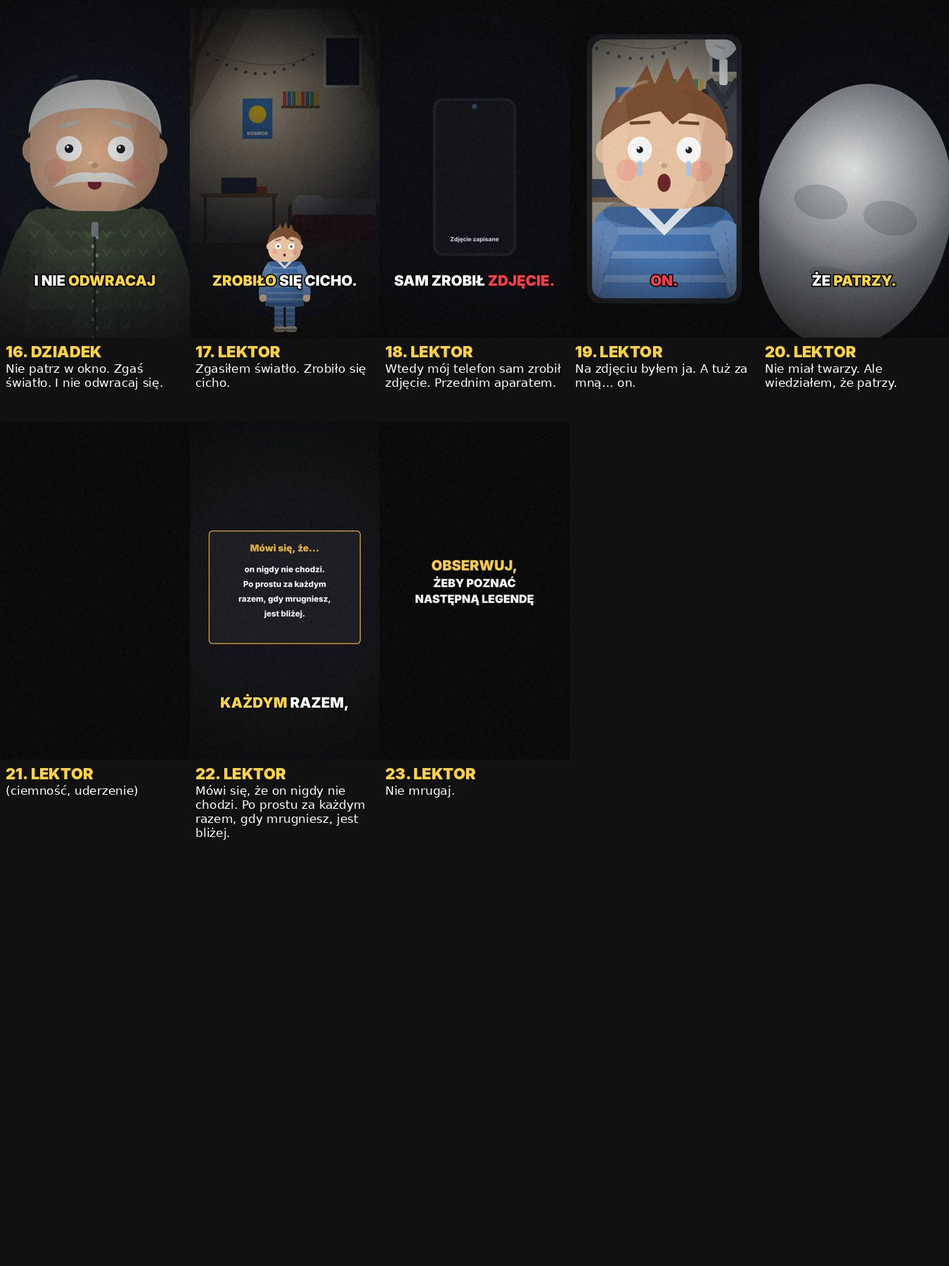
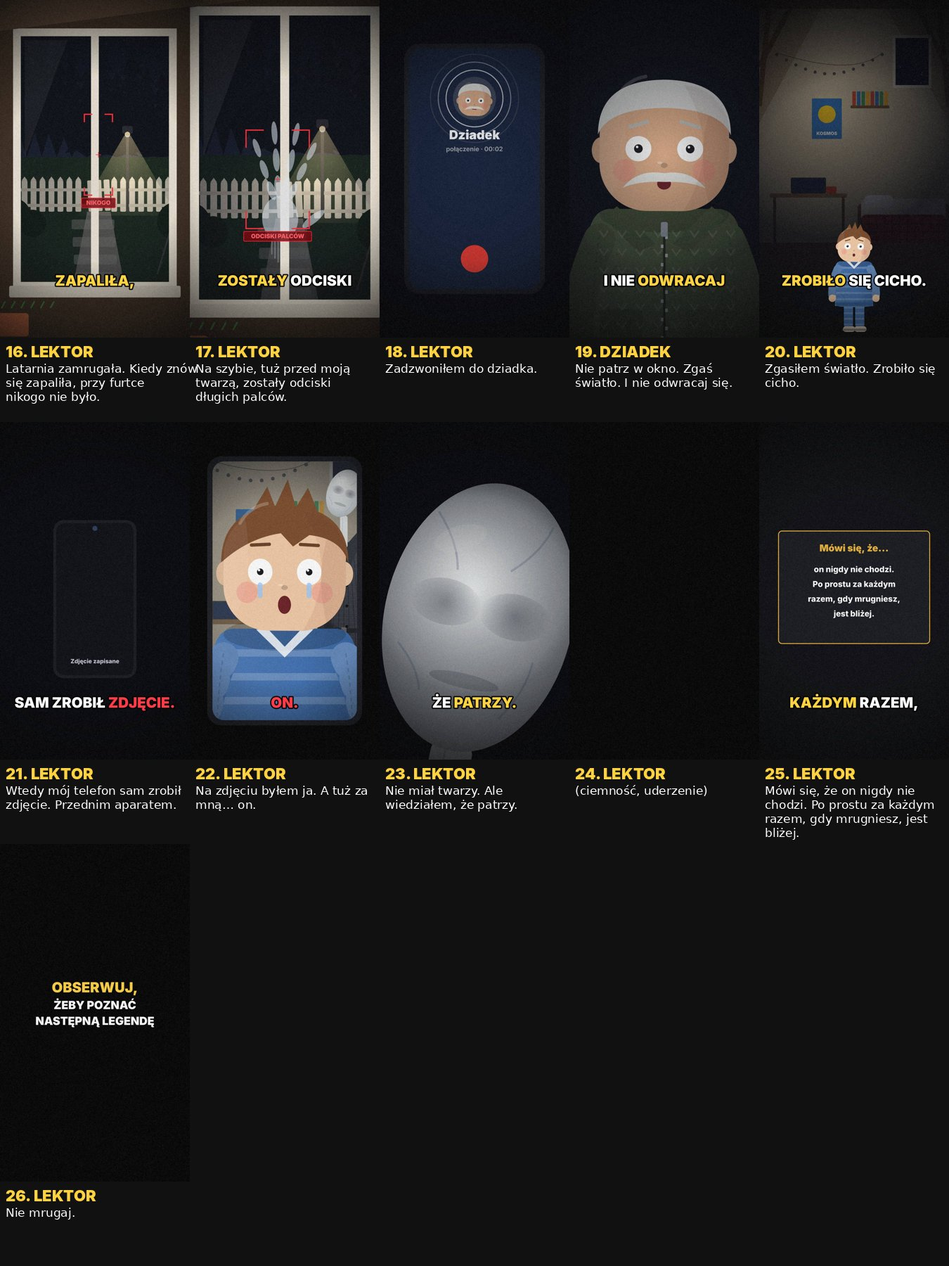
Pan Bez Twarzy: dopracowana postać, 3 nowe sceny (zoom, latarnia, odciski na szybie)
Claude-Session: https://claude.ai/code/session_01XA7BeL8A8WqQ6rWtpD99qW

diff --git a/film/leg22/scenes.js b/film/leg22/scenes.js
@@ -2161,16 +2161,21 @@ function sypialniaNowa(c, lt, o = {}) { c.fillStyle = '#D8D0C8'; c.fillRect(0, 0
   NIGHT(c, o.dark ?? .4, 400, 1000, 760); }
 // ===================== PAN BEZ TWARZY: postać =====================
 // bardzo wysoki, chudy, w długim grafitowym płaszczu; gładka blada głowa bez rysów; długie ręce i palce; o.a, o.tilt, o.reach
-function bezTwarzy(c, x, y, s, t, o = {}) { c.save(); c.globalAlpha = o.a ?? 1; c.translate(x, y); c.scale(s, s); ell(c, 0, 0, 120, 16, 'rgba(0,0,0,.35)');
-  // nogi
-  for (const sx of [-1, 1]) { fillRR(c, sx * 34 - 16, -900, 32, 900, 12, '#14161A'); ell(c, sx * 40, -4, 34, 12, '#0A0A0C'); }
-  // płaszcz
-  const g = c.createLinearGradient(-140, -1700, 140, -500); g.addColorStop(0, '#3A3E46'); g.addColorStop(1, '#1A1C22'); c.fillStyle = g; c.beginPath(); c.moveTo(-90, -1640); c.lineTo(90, -1640); c.quadraticCurveTo(150, -1200, 170, -620); c.lineTo(40, -660); c.lineTo(0, -900); c.lineTo(-40, -660); c.lineTo(-170, -620); c.quadraticCurveTo(-150, -1200, -90, -1640); c.fill();
-  c.strokeStyle = 'rgba(0,0,0,.4)'; c.lineWidth = 4; c.beginPath(); c.moveTo(0, -1600); c.lineTo(0, -900); c.stroke(); for (let k = 0; k < 4; k++) circ(c, 14, -1500 + k * 120, 7, '#0A0A0C'); c.fillStyle = '#26282E'; c.beginPath(); c.moveTo(-90, -1640); c.lineTo(0, -1500); c.lineTo(90, -1640); c.lineTo(60, -1660); c.lineTo(0, -1560); c.lineTo(-60, -1660); c.fill();
-  // ręce: bardzo długie, palce do kolan
-  const reach = o.reach || 0; for (const sx of [-1, 1]) { c.save(); c.translate(sx * 100, -1600); c.rotate(sx * (.08 + (sx > 0 ? reach : 0) * -1.2) + Math.sin(t * .8 + sx) * .02); fillRR(c, -20, 0, 40, 860, 18, '#24262C'); c.translate(0, 860); fillRR(c, -22, 0, 44, 60, 14, '#D8DCDC'); for (let f = 0; f < 4; f++) { c.save(); c.translate(-16 + f * 11, 50); c.rotate((f - 1.5) * .05); fillRR(c, -4, 0, 9, 150 + (f === 1 || f === 2 ? 30 : 0), 4, '#D0D4D4'); c.restore(); } c.restore(); }
-  // szyja i głowa bez twarzy
-  fillRR(c, -22, -1760, 44, 140, 12, '#D0D4D4'); c.save(); c.translate(0, -1880); c.rotate((o.tilt ?? .12) + Math.sin(t * .6) * .03); const hg = c.createRadialGradient(-30, -40, 10, 0, 0, 130); hg.addColorStop(0, '#F4F6F6'); hg.addColorStop(1, '#B8C0C2'); c.fillStyle = hg; c.beginPath(); c.ellipse(0, 0, 92, 128, 0, 0, 7); c.fill(); c.fillStyle = 'rgba(80,90,96,.25)'; for (const sx of [-1, 1]) { c.beginPath(); c.ellipse(sx * 34, -6, 26, 16, 0, 0, 7); c.fill(); } c.beginPath(); c.ellipse(0, 60, 30, 8, 0, 0, 7); c.fill(); c.restore();
+function bezTwarzy(c, x, y, s, t, o = {}) { c.save(); c.globalAlpha = o.a ?? 1; c.translate(x, y); c.scale(s, s); ell(c, 0, 0, 130, 18, 'rgba(0,0,0,.4)');
+  for (const sx of [-1, 1]) { fillRR(c, sx * 34 - 15, -900, 30, 900, 12, '#121418'); c.fillStyle = '#08080A'; c.beginPath(); c.ellipse(sx * 46, -6, 40, 13, 0, 0, 7); c.fill(); }
+  // płaszcz z fakturą, postrzępiony dół
+  const g = c.createLinearGradient(-150, -1700, 150, -500); g.addColorStop(0, '#3E424A'); g.addColorStop(.6, '#262930'); g.addColorStop(1, '#16181C'); c.fillStyle = g; c.beginPath(); c.moveTo(-92, -1640); c.lineTo(92, -1640); c.quadraticCurveTo(150, -1200, 175, -640); for (let k = 0; k <= 8; k++) c.lineTo(175 - k * 44, -640 + (k % 2 ? 46 : 0) + Math.sin(t * 2 + k) * 6); c.quadraticCurveTo(-150, -1200, -92, -1640); c.fill();
+  c.strokeStyle = 'rgba(0,0,0,.35)'; c.lineWidth = 3; for (let k = -3; k <= 3; k++) { c.beginPath(); c.moveTo(k * 18, -1560); c.quadraticCurveTo(k * 30, -1100, k * 48, -660); c.stroke(); } c.strokeStyle = 'rgba(255,255,255,.05)'; c.lineWidth = 2; for (let k = 0; k < 40; k++) { const yy = -1600 + k * 24; c.beginPath(); c.moveTo(-120 - k * .6, yy); c.lineTo(120 + k * .6, yy + 6); c.stroke(); }
+  fillRR(c, -100, -1180, 200, 24, 8, '#1A1C20'); fillRR(c, -14, -1186, 28, 36, 4, '#5A5A5E'); for (const sx of [-1, 1]) { fillRR(c, sx * 80 - 30, -1060, 60, 70, 8, 'rgba(0,0,0,.25)'); } for (let k = 0; k < 4; k++) circ(c, 16, -1520 + k * 110, 8, '#0A0A0C');
+  c.fillStyle = '#2C2F36'; c.beginPath(); c.moveTo(-96, -1650); c.lineTo(-20, -1480); c.lineTo(0, -1600); c.lineTo(20, -1480); c.lineTo(96, -1650); c.lineTo(70, -1690); c.lineTo(0, -1610); c.lineTo(-70, -1690); c.fill();
+  // ręce: długie, kościste palce ze stawami
+  const reach = o.reach || 0; for (const sx of [-1, 1]) { c.save(); c.translate(sx * 104, -1610); c.rotate(sx * (.07 + (sx > 0 ? reach : 0) * -1.2) + Math.sin(t * .8 + sx) * .02); fillRR(c, -21, 0, 42, 860, 18, '#22252B'); fillRR(c, -24, 820, 48, 40, 10, '#2C2F36'); c.translate(0, 860); fillRR(c, -20, 0, 40, 64, 14, '#D4D8D8'); for (let f = 0; f < 4; f++) { c.save(); c.translate(-15 + f * 10, 58); c.rotate((f - 1.5) * .06 + Math.sin(t * 1.5 + f) * .03); const L = 170 + (f === 1 || f === 2 ? 40 : 0); c.strokeStyle = '#C8CCCC'; c.lineWidth = 9; c.lineCap = 'round'; c.beginPath(); c.moveTo(0, 0); c.lineTo(0, L * .45); c.lineTo(2, L * .8); c.lineTo(0, L); c.stroke(); circ(c, 0, L * .45, 6, '#B8BCBC'); circ(c, 2, L * .8, 5, '#B8BCBC'); c.restore(); } c.restore(); }
+  // szyja i głowa bez twarzy: żyłki, wgłębienia
+  fillRR(c, -20, -1780, 40, 170, 12, '#CDD1D1'); c.strokeStyle = 'rgba(120,130,140,.4)'; c.lineWidth = 2; c.beginPath(); c.moveTo(-6, -1770); c.lineTo(-10, -1640); c.stroke();
+  c.save(); c.translate(0, -1900); c.rotate((o.tilt ?? .12) + Math.sin(t * .6) * .03); const hg = c.createRadialGradient(-30, -50, 10, 0, 0, 140); hg.addColorStop(0, '#F6F8F8'); hg.addColorStop(.7, '#C8CED0'); hg.addColorStop(1, '#9AA2A6'); c.fillStyle = hg; c.beginPath(); c.ellipse(0, 0, 90, 130, 0, 0, 7); c.fill();
+  for (const sx of [-1, 1]) { const eg = c.createRadialGradient(sx * 34, -8, 2, sx * 34, -8, 34); eg.addColorStop(0, 'rgba(60,70,80,.45)'); eg.addColorStop(1, 'rgba(60,70,80,0)'); c.fillStyle = eg; c.beginPath(); c.ellipse(sx * 34, -8, 34, 22, 0, 0, 7); c.fill(); }
+  c.fillStyle = 'rgba(60,70,80,.25)'; c.beginPath(); c.ellipse(0, 62, 34, 7, 0, 0, 7); c.fill(); c.strokeStyle = 'rgba(110,130,160,.35)'; c.lineWidth = 2; for (const [a, b2, cc, d] of [[-60, -90, -30, -40], [50, -100, 20, -50], [-70, 40, -40, 80], [60, 30, 40, 90]]) { c.beginPath(); c.moveTo(a, b2); c.quadraticCurveTo((a + cc) / 2 + 10, (b2 + d) / 2, cc, d); c.stroke(); }
+  c.fillStyle = 'rgba(255,255,255,.35)'; c.beginPath(); c.ellipse(-34, -70, 26, 12, -.5, 0, 7); c.fill(); c.restore();
   c.restore(); }
 // ===================== jesienny las we mgle =====================
 // o.fog (0..1), o.path, o.sign, o.figure {x,y,s,a}, o.kids [[x,y,s,opts]], o.clearing, o.flash
@@ -2234,7 +2239,7 @@ function fotoLas(c, x, y, w, h, lt, stage = 1) { c.save(); c.translate(x, y); c.
 // galeria w telefonie: duże zdjęcie + miniatury
 function galeria(c, lt, stage, o = {}) { c.fillStyle = '#05060A'; c.fillRect(0, 0, W, H); c.save(); c.translate(540, 960); c.rotate(-.02); fillRR(c, -380, -660, 760, 1320, 80, '#1A1C22'); fillRR(c, -354, -634, 708, 1268, 60, '#000'); c.save(); c.beginPath(); rr(c, -354, -634, 708, 1268, 60); c.clip(); txt(c, 'Wycieczka · pt', 0, -560, 34, '#FFFFFF', 900); fotoLas(c, -340, -500, 680, 820, lt, stage); for (let k = 0; k < 4; k++) { c.save(); c.globalAlpha = k + 1 === stage ? 1 : .6; fotoLas(c, -330 + k * 168, 360, 150, 180, lt, Math.min(3, k + 1)); c.restore(); if (k + 1 === stage) { c.strokeStyle = '#FFFFFF'; c.lineWidth = 5; c.strokeRect(-330 + k * 168, 360, 150, 180); } } c.restore(); c.restore(); NIGHT(c, .35, 540, 960, 760); }
 // ===================== PAN BEZ TWARZY: sceny =====================
-const TSK = {'karta':{start:0,end:4.4},'las0':{start:4.4,end:8.0},'zdjecia':{start:8.0,end:11.4},'dziadek':{start:11.4,end:15.8},'kuba0':{start:15.8,end:18.4},'wycieczka':{start:18.4,end:22.0},'mgla':{start:22.0,end:25.2},'zdjecie1':{start:25.2,end:28.8},'galeria1':{start:28.8,end:32.6},'galeria2':{start:32.6,end:36.0},'galeria3':{start:36.0,end:39.6},'nikt':{start:39.6,end:42.8},'okno':{start:42.8,end:46.4},'latarnia':{start:46.4,end:50.2},'dzwonie':{start:50.2,end:53.2},'dziadek2':{start:53.2,end:57.2},'gasi':{start:57.2,end:60.2},'klik':{start:60.2,end:63.4},'selfie':{start:63.4,end:67.4},'patrzy':{start:67.4,end:70.8},'ciemnosc':{start:70.8,end:73.2},'epilog':{start:73.2,end:78.4},'end':{start:78.4,end:83.4}};
+const TSK = {'karta':{start:0,end:4.4},'las0':{start:4.4,end:8.0},'zdjecia':{start:8.0,end:11.4},'dziadek':{start:11.4,end:15.8},'kuba0':{start:15.8,end:18.4},'wycieczka':{start:18.4,end:22.0},'mgla':{start:22.0,end:25.2},'zdjecie1':{start:25.2,end:28.8},'galeria1':{start:28.8,end:32.6},'galeria2':{start:32.6,end:36.0},'galeria3':{start:36.0,end:39.6},'zoom':{start:39.6,end:43.2},'nikt':{start:43.2,end:46.4},'okno':{start:46.4,end:50.0},'latarnia':{start:50.0,end:53.8},'mruga':{start:53.8,end:57.2},'szyba':{start:57.2,end:61.0},'dzwonie':{start:61.0,end:64.0},'dziadek2':{start:64.0,end:68.0},'gasi':{start:68.0,end:71.0},'klik':{start:71.0,end:74.2},'selfie':{start:74.2,end:78.2},'patrzy':{start:78.2,end:81.6},'ciemnosc':{start:81.6,end:84.0},'epilog':{start:84.0,end:89.2},'end':{start:89.2,end:94.2}};
 let _lt = 0; const SC = (name, o) => { const d = o.draw; if (d) o.draw = (c, lt) => { _lt = lt; d(c, lt); }; return scene(Object.assign({ name }, TSK[name], o)); };
 
 const KUBA = { kind: 'kuba', home: true }, KUBAS = { kind: 'kuba', home: false }, DZIADEK = { kind: 'sasiad', cloth: '#4A5A3A', hair: '#E2E2DE', stache: '#EAEAE6', knit: true }, PANI = { kind: 'mama', cloth: '#3A6A8A', hair: '#2A1E18' };
@@ -2258,6 +2263,9 @@ SC('zdjecie1', { cam: P(1.04, 3.6), draw(c, lt) { lasJesien(c, lt, { clearing: t
 SC('galeria1', { cam: (lt) => ({ z: 1.04 + lt * .04 }), draw(c, lt) { galeria(c, lt, 1); }, post(c, lt) { if (lt > 1.8) target(c, lt, 832, 600, 150, 340, 'KTOŚ STOI', 1.8); } });
 SC('galeria2', { cam: (lt) => ({ z: 1.08 + lt * .04 }), draw(c, lt) { galeria(c, lt, 2); }, post(c, lt) { joltFlash(c, lt, [.3]); } });
 SC('galeria3', { cam: (lt) => ({ z: 1.12 + lt * .04 }), draw(c, lt) { galeria(c, lt, 3); }, post(c, lt) { joltFlash(c, lt, [.3]); if (lt > 1.2) target(c, lt, 700, 640, 220, 560, 'ZA NAMI', 1.2); } });
+SC('zoom', { cam: (lt) => ({ z: 1.0 }), draw(c, lt) { const z = 1 + eout(clamp((lt - .3) / 2)) * 2.2; c.save(); c.translate(540, 960); c.scale(z, z); c.translate(-600, -lerp(960, 540, eout(clamp((lt - .3) / 2)))); lasJesien(c, lt, { fog: .55, path: false, figure: { x: 600, y: 1700, s: .62 }, dark: .2 }); c.restore(); for (let k = 0; k < 900; k++) circ(c, hash(k + Math.floor(lt * 12)) * W, hash(k * 7 + Math.floor(lt * 12)) * H, 1.6, `rgba(255,255,255,${.08 + hash(k) * .1})`); for (const [fx, fy] of [[380 - lt * 40, 1500 + lt * 30], [700 + lt * 40, 1400 - lt * 30]]) { c.save(); c.globalAlpha = clamp(1 - lt / 2); circ(c, fx, fy, 50, 'rgba(255,255,255,.35)'); c.restore(); } NIGHT(c, .3, 540, 900, 760); }, post(c, lt) { if (lt > 2.2) band(c, lt, 'NIE MA TWARZY', 2.2, 300, '#D7263D'); } });
+SC('mruga', { cam: (lt) => ({ z: 1.0 + lt * .04 }), draw(c, lt) { const off = lt > 1.2 && lt < 2.0; const gone = lt > 2.0; oknoPoddasze(c, lt, (cc, l) => ogrodNoc(cc, l, { lamp: off ? (Math.sin(l * 40) > .3 ? 1 : 0) : 1, figure: gone ? null : { x: 560, y: 1200, s: .42 } })); }, post(c, lt) { if (lt > 2.2) target(c, lt, 560, 880, 160, 460, 'NIKOGO', 2.2); } });
+SC('szyba', { cam: (lt) => ({ z: 1.1 + lt * .06 }), draw(c, lt) { oknoPoddasze(c, lt, (cc, l) => ogrodNoc(cc, l, { lamp: 1, dark: .55 })); c.save(); c.globalAlpha = clamp((lt - .6) / 1.2) * .55; c.fillStyle = 'rgba(225,235,245,1)'; c.beginPath(); c.ellipse(520, 1180, 80, 100, 0, 0, 7); c.fill(); for (let f = 0; f < 4; f++) { const a = -1.9 + f * .26, L = 300 + (f === 1 || f === 2 ? 60 : 0); c.save(); c.translate(520 + Math.cos(a) * 70, 1180 + Math.sin(a) * 80); c.rotate(a + Math.PI / 2); for (let k = 0; k < 3; k++) { c.beginPath(); c.ellipse(0, -L * (k + .5) / 3, 17 - k * 2, L / 7, 0, 0, 7); c.fill(); } c.restore(); } c.save(); c.translate(620, 1220); c.rotate(.9); c.beginPath(); c.ellipse(0, -60, 18, 60, 0, 0, 7); c.fill(); c.restore(); c.globalAlpha *= .5; for (let k = 0; k < 6; k++) { c.fillRect(480 + k * 14, 1280, 6, 60 + k * 18); } c.restore(); }, post(c, lt) { if (lt > 2.0) target(c, lt, 500, 1020, 360, 560, 'ODCISKI PALCÓW', 2.0); } });
 SC('nikt', { cam: P(1.08, 3.2), draw(c, lt) { toonClose(c, lt, 'kuba', 'fear', { kind: 'kuba', home: true, look: 0, bg: '#1A1410', scene: (cc, l) => poddasze(cc, l, { light: 1 }), n: .4 }); } });
 SC('okno', { cam: (lt) => ({ z: 1.04 + lt * .04 }), draw(c, lt) { poddasze(c, lt, { fairy: true, dark: .55 }); toon(c, 820, 1880, .62, Object.assign({ expr: 'fear', t: lt, look: 1 }, KUBA)); } });
 SC('latarnia', { cam: (lt) => ({ z: 1.0 + lt * .06 }), draw(c, lt) { oknoPoddasze(c, lt, (cc, l) => ogrodNoc(cc, l, { figure: { x: 560, y: 1200, s: .42 } })); }, post(c, lt) { target(c, lt, 560, 880, 160, 460, 'PRZY FURTCE', 1.4); } });
@@ -2265,9 +2273,9 @@ SC('dzwonie', { cam: (lt) => ({ z: 1.04 + lt * .03 }), draw(c, lt) { rozmowa(c, 
 SC('dziadek2', { cam: (lt) => ({ z: 1.1 + lt * .04 }), draw(c, lt) { toonClose(c, lt, 'sasiad', 'fear', Object.assign({}, DZIADEK, { talk: true, look: 0, bg: '#0A0C14', scene: (cc) => { cc.fillStyle = '#0A0C14'; cc.fillRect(0, 0, W, H); }, n: .55 })); } });
 SC('gasi', { cam: jolt([1.0]), draw(c, lt) { poddasze(c, lt, { light: lt < 1.0 ? 1 : 0, dark: .88 }); if (lt > 1.0) { c.fillStyle = 'rgba(0,0,0,.35)'; c.fillRect(0, 0, W, H); } toon(c, 540, 1880, .62, Object.assign({ expr: 'fear', t: lt, look: 0 }, KUBA)); } });
 SC('klik', { cam: (lt) => ({ z: 1.08 + lt * .04 }), draw(c, lt) { c.fillStyle = '#04050A'; c.fillRect(0, 0, W, H); c.save(); c.translate(540, 1000); fillRR(c, -200, -380, 400, 760, 50, '#14161B'); fillRR(c, -186, -366, 372, 732, 40, '#0A0C12'); circ(c, 0, -340, 12, '#2A3A5A'); if (lt > 1.2) { c.fillStyle = `rgba(255,255,255,${clamp(1 - (lt - 1.2) * 3)})`; c.fillRect(-186, -366, 372, 732); } txt(c, lt > 1.2 ? 'Zdjęcie zapisane' : 'Aparat przedni', 0, 300, 28, '#C8CCD4', 800); c.restore(); }, post(c, lt) { if (lt > 1.2 && lt < 1.4) { c.fillStyle = 'rgba(255,255,255,.7)'; c.fillRect(0, 0, W, H); } } });
-SC('selfie', { cam: (lt) => ({ z: 1.0 + lt * .05 }), draw(c, lt) { c.fillStyle = '#000'; c.fillRect(0, 0, W, H); c.save(); c.translate(540, 960); fillRR(c, -380, -660, 760, 1320, 70, '#1A1C22'); c.beginPath(); rr(c, -354, -634, 708, 1268, 56); c.clip(); c.translate(-540, -960); poddasze(c, lt, { dark: .5, lx: 540, ly: 900 }); c.fillStyle = 'rgba(200,210,230,.12)'; c.fillRect(0, 0, W, H); if (lt > 1.2) { c.save(); c.globalAlpha = clamp((lt - 1.2) / .4); bezTwarzy(c, 830, 2040, .92, lt, { tilt: .3, reach: .3 }); c.restore(); } toonClose(c, lt, 'kuba', 'shock', { kind: 'kuba', home: true, look: 0, tears: true, bg: 'rgba(0,0,0,0)', scene: () => {}, n: 0 }); c.restore(); }, post(c, lt) { joltFlash(c, lt, [1.2]); } });
+SC('selfie', { cam: (lt) => ({ z: 1.0 + lt * .05 }), draw(c, lt) { c.fillStyle = '#000'; c.fillRect(0, 0, W, H); c.save(); c.translate(540, 960); fillRR(c, -380, -660, 760, 1320, 70, '#1A1C22'); c.beginPath(); rr(c, -354, -634, 708, 1268, 56); c.clip(); c.translate(-540, -960); poddasze(c, lt, { dark: .5, lx: 540, ly: 900 }); c.fillStyle = 'rgba(200,210,230,.12)'; c.fillRect(0, 0, W, H); if (lt > 1.2) { c.save(); c.globalAlpha = clamp((lt - 1.2) / .4); bezTwarzy(c, 830, 2230, .92, lt, { tilt: .3, reach: .3 }); c.restore(); } toonClose(c, lt, 'kuba', 'shock', { kind: 'kuba', home: true, look: 0, tears: true, bg: 'rgba(0,0,0,0)', scene: () => {}, n: 0 }); c.restore(); }, post(c, lt) { joltFlash(c, lt, [1.2]); } });
 SC('patrzy', { cam: (lt) => ({ z: 1.2 + lt * .08 }), draw(c, lt) { c.fillStyle = '#030305'; c.fillRect(0, 0, W, H); c.save(); c.translate(540, 1150); c.rotate(.2); c.scale(4.2, 4.2); c.translate(0, 1880); bezTwarzy(c, 0, 0, 1, lt, { tilt: 0 }); c.restore(); NIGHT(c, .5, 540, 960, 600); } });
 SC('ciemnosc', { draw(c, lt) { c.fillStyle = '#000'; c.fillRect(0, 0, W, H); }, post(c, lt) { joltFlash(c, lt, [.05]); } });
 SC('epilog', { draw(c, lt) { c.fillStyle = '#0B0C10'; c.fillRect(0, 0, W, H); const p = eout(clamp(lt / .5)); c.save(); c.globalAlpha = p; fillRR(c, 110, 620, 860, 640, 20, '#14161D'); c.strokeStyle = '#E8B13A'; c.lineWidth = 5; rr(c, 110, 620, 860, 640, 20); c.stroke(); txt(c, 'Mówi się, że…', 540, 720, 54, '#E8B13A', 900); ['on nigdy nie chodzi.', 'Po prostu za każdym', 'razem, gdy mrugniesz,', 'jest bliżej.'].forEach((l, i) => txt(c, l, 540, 840 + i * 84, 46, '#FFFFFF', 800)); c.restore(); } });
 SC('end', { draw(c, lt) { c.fillStyle = '#000'; c.fillRect(0, 0, W, H); if (lt < 2.6) { const a = clamp(lt / .6) * clamp((2.6 - lt) / .4); c.save(); c.globalAlpha = a; c.translate(540, 1100); c.scale(3.4 + lt * .2, 3.4 + lt * .2); c.translate(0, 1880); bezTwarzy(c, 0, 0, 1, lt, { tilt: .15 }); c.restore(); } if (lt > 2.6) { const p = eout(clamp((lt - 2.6) / .5)); c.save(); c.globalAlpha = p; txt(c, 'OBSERWUJ,', 540, 820, 80, '#FFD23F', 900); txt(c, 'ŻEBY POZNAĆ', 540, 920, 64, '#FFFFFF', 900); txt(c, 'NASTĘPNĄ LEGENDĘ', 540, 1010, 64, '#FFFFFF', 900); c.restore(); } } });
-EP.cues = (add) => { [[0.1, 'stab'], [26.8, 'click'], [30.6, 'hit'], [32.9, 'jolt'], [36.3, 'jolt'], [47.8, 'hit'], [50.2, 'ring'], [58.2, 'switch'], [61.4, 'click'], [64.6, 'jolt'], [70.85, 'hit'], [78.4, 'hit']].forEach(([t, n]) => add(t, n)); };
+EP.cues = (add) => { [[0.1, 'stab'], [26.8, 'click'], [30.6, 'hit'], [32.9, 'jolt'], [36.3, 'jolt'], [41.8, 'hit'], [51.4, 'hit'], [55.0, 'buzz'], [56.0, 'hit'], [57.8, 'squeak'], [59.2, 'hit'], [61.0, 'ring'], [69.0, 'switch'], [72.2, 'click'], [75.4, 'jolt'], [81.65, 'hit'], [89.2, 'hit']].forEach(([t, n]) => add(t, n)); };

diff --git a/film/leg22/timeline.js b/film/leg22/timeline.js
@@ -1,2 +1,2 @@
 window.TIMELINE = [];
-window.LINES = [{"t": 0.15, "dur": 1.864, "text": "[storytelling, tense, slow] To jest Pan Bez Twarzy.", "who": "lektor"}, {"t": 4.55, "dur": 4.312, "text": "[storytelling, tense] Mówi się, że w lasach stoi ktoś za wysoki. I nie ma twarzy.", "who": "lektor"}, {"t": 8.15, "dur": 3.292, "text": "[whispering] Kto zrobi mu zdjęcie, tego on już nie zgubi.", "who": "lektor"}, {"t": 11.55, "dur": 6.012, "text": "[old man, serious, warning] Kuba, jak w lesie zobaczysz kogoś za wysokiego, nie patrz na niego. I nie rób zdjęć.", "who": "dziadek"}, {"t": 15.95, "dur": 1.524, "text": "[boy, laughing] Dziadku, to bajki.", "who": "kuba"}, {"t": 18.55, "dur": 3.972, "text": "[storytelling] W piątek pojechaliśmy z klasą na ścieżkę przyrodniczą.", "who": "lektor"}, {"t": 22.15, "dur": 2.68, "text": "[storytelling, tense] W lesie była mgła. Gęsta jak mleko.", "who": "lektor"}, {"t": 25.35, "dur": 3.292, "text": "[storytelling] Pani zrobiła nam wspólne zdjęcie na polanie.", "who": "lektor"}, {"t": 28.95, "dur": 4.108, "text": "[storytelling, tense, slow] Wieczorem obejrzałem zdjęcia. Między drzewami ktoś stał.", "who": "lektor"}, {"t": 32.75, "dur": 1.932, "text": "[whispering] Na następnym był bliżej.", "who": "lektor"}, {"t": 36.15, "dur": 2.748, "text": "[whispering] Na kolejnym stał tuż za naszą klasą.", "who": "lektor"}, {"t": 39.75, "dur": 2.34, "text": "[storytelling, tense] Nikt go tam nie widział. Nikt.", "who": "lektor"}, {"t": 42.95, "dur": 3.972, "text": "[storytelling, tense] Mieszkamy w domu na skraju lasu. Wyjrzałem przez okno.", "who": "lektor"}, {"t": 46.55, "dur": 3.768, "text": "[storytelling, tense, slow] Pod latarnią, przy furtce, stał ktoś bardzo wysoki.", "who": "lektor"}, {"t": 50.35, "dur": 1.864, "text": "[storytelling, urgent] Zadzwoniłem do dziadka.", "who": "lektor"}, {"t": 53.35, "dur": 3.768, "text": "[old man, scared, whispering] Nie patrz w okno. Zgaś światło. I nie odwracaj się.", "who": "dziadek"}, {"t": 57.35, "dur": 2.748, "text": "[storytelling, tense] Zgasiłem światło. Zrobiło się cicho.", "who": "lektor"}, {"t": 60.35, "dur": 4.108, "text": "[whispering] Wtedy mój telefon sam zrobił zdjęcie. Przednim aparatem.", "who": "lektor"}, {"t": 63.55, "dur": 2.884, "text": "[storytelling, tense, slow] Na zdjęciu byłem ja. A tuż za mną… on.", "who": "lektor"}, {"t": 67.55, "dur": 3.224, "text": "[whispering, slow] Nie miał twarzy. Ale wiedziałem, że patrzy.", "who": "lektor"}, {"t": 73.35, "dur": 6.284, "text": "[storytelling] Mówi się, że on nigdy nie chodzi. Po prostu za każdym razem, gdy mrugniesz, jest bliżej.", "who": "lektor"}, {"t": 78.55, "dur": 1.048, "text": "[whispering, eerie] Nie mrugaj.", "who": "lektor"}];
+window.LINES = [{"t": 0.15, "dur": 1.864, "text": "[storytelling, tense, slow] To jest Pan Bez Twarzy.", "who": "lektor"}, {"t": 4.55, "dur": 4.312, "text": "[storytelling, tense] Mówi się, że w lasach stoi ktoś za wysoki. I nie ma twarzy.", "who": "lektor"}, {"t": 8.15, "dur": 3.292, "text": "[whispering] Kto zrobi mu zdjęcie, tego on już nie zgubi.", "who": "lektor"}, {"t": 11.55, "dur": 6.012, "text": "[old man, serious, warning] Kuba, jak w lesie zobaczysz kogoś za wysokiego, nie patrz na niego. I nie rób zdjęć.", "who": "dziadek"}, {"t": 15.95, "dur": 1.524, "text": "[boy, laughing] Dziadku, to bajki.", "who": "kuba"}, {"t": 18.55, "dur": 3.972, "text": "[storytelling] W piątek pojechaliśmy z klasą na ścieżkę przyrodniczą.", "who": "lektor"}, {"t": 22.15, "dur": 2.68, "text": "[storytelling, tense] W lesie była mgła. Gęsta jak mleko.", "who": "lektor"}, {"t": 25.35, "dur": 3.292, "text": "[storytelling] Pani zrobiła nam wspólne zdjęcie na polanie.", "who": "lektor"}, {"t": 28.95, "dur": 4.108, "text": "[storytelling, tense, slow] Wieczorem obejrzałem zdjęcia. Między drzewami ktoś stał.", "who": "lektor"}, {"t": 32.75, "dur": 1.932, "text": "[whispering] Na następnym był bliżej.", "who": "lektor"}, {"t": 36.15, "dur": 2.748, "text": "[whispering] Na kolejnym stał tuż za naszą klasą.", "who": "lektor"}, {"t": 43.35, "dur": 2.34, "text": "[storytelling, tense] Nikt go tam nie widział. Nikt.", "who": "lektor"}, {"t": 46.55, "dur": 3.972, "text": "[storytelling, tense] Mieszkamy w domu na skraju lasu. Wyjrzałem przez okno.", "who": "lektor"}, {"t": 50.15, "dur": 3.768, "text": "[storytelling, tense, slow] Pod latarnią, przy furtce, stał ktoś bardzo wysoki.", "who": "lektor"}, {"t": 61.15, "dur": 1.864, "text": "[storytelling, urgent] Zadzwoniłem do dziadka.", "who": "lektor"}, {"t": 64.15, "dur": 3.768, "text": "[old man, scared, whispering] Nie patrz w okno. Zgaś światło. I nie odwracaj się.", "who": "dziadek"}, {"t": 68.15, "dur": 2.748, "text": "[storytelling, tense] Zgasiłem światło. Zrobiło się cicho.", "who": "lektor"}, {"t": 71.15, "dur": 4.108, "text": "[whispering] Wtedy mój telefon sam zrobił zdjęcie. Przednim aparatem.", "who": "lektor"}, {"t": 74.35, "dur": 2.884, "text": "[storytelling, tense, slow] Na zdjęciu byłem ja. A tuż za mną… on.", "who": "lektor"}, {"t": 78.35, "dur": 3.224, "text": "[whispering, slow] Nie miał twarzy. Ale wiedziałem, że patrzy.", "who": "lektor"}, {"t": 84.15, "dur": 6.284, "text": "[storytelling] Mówi się, że on nigdy nie chodzi. Po prostu za każdym razem, gdy mrugniesz, jest bliżej.", "who": "lektor"}, {"t": 89.35, "dur": 1.048, "text": "[whispering, eerie] Nie mrugaj.", "who": "lektor"}, {"t": 39.75, "dur": 4.72, "text": "[whispering, slow] Przybliżyłem zdjęcie. Tam, gdzie powinna być twarz, nie było nic.", "who": "lektor"}, {"t": 53.95, "dur": 5.264, "text": "[storytelling, tense] Latarnia zamrugała. Kiedy znów się zapaliła, przy furtce nikogo nie było.", "who": "lektor"}, {"t": 57.35, "dur": 4.72, "text": "[whispering, slow] Na szybie, tuż przed moją twarzą, zostały odciski długich palców.", "who": "lektor"}];

diff --git a/film/leg22/config.py b/film/leg22/config.py
@@ -10,7 +10,7 @@ MAXK = 1.6
 PREVIEW_NO_VOICE = True
 TARGET = 118
 SQUEEZE = 0.75
-SCENES = [('karta', 0, 4.4), ('las0', 4.4, 8.0), ('zdjecia', 8.0, 11.4), ('dziadek', 11.4, 15.8), ('kuba0', 15.8, 18.4), ('wycieczka', 18.4, 22.0), ('mgla', 22.0, 25.2), ('zdjecie1', 25.2, 28.8), ('galeria1', 28.8, 32.6), ('galeria2', 32.6, 36.0), ('galeria3', 36.0, 39.6), ('nikt', 39.6, 42.8), ('okno', 42.8, 46.4), ('latarnia', 46.4, 50.2), ('dzwonie', 50.2, 53.2), ('dziadek2', 53.2, 57.2), ('gasi', 57.2, 60.2), ('klik', 60.2, 63.4), ('selfie', 63.4, 67.4), ('patrzy', 67.4, 70.8), ('ciemnosc', 70.8, 73.2), ('epilog', 73.2, 78.4), ('end', 78.4, 83.4)]
+SCENES = [('karta', 0, 4.4), ('las0', 4.4, 8.0), ('zdjecia', 8.0, 11.4), ('dziadek', 11.4, 15.8), ('kuba0', 15.8, 18.4), ('wycieczka', 18.4, 22.0), ('mgla', 22.0, 25.2), ('zdjecie1', 25.2, 28.8), ('galeria1', 28.8, 32.6), ('galeria2', 32.6, 36.0), ('galeria3', 36.0, 39.6), ('zoom', 39.6, 43.2), ('nikt', 43.2, 46.4), ('okno', 46.4, 50.0), ('latarnia', 50.0, 53.8), ('mruga', 53.8, 57.2), ('szyba', 57.2, 61.0), ('dzwonie', 61.0, 64.0), ('dziadek2', 64.0, 68.0), ('gasi', 68.0, 71.0), ('klik', 71.0, 74.2), ('selfie', 74.2, 78.2), ('patrzy', 78.2, 81.6), ('ciemnosc', 81.6, 84.0), ('epilog', 84.0, 89.2), ('end', 89.2, 94.2)]
 SEG = [
     ['karta', 0.15, '[storytelling, tense, slow] To jest Pan Bez Twarzy.'],
     ['las0', 0.15, '[storytelling, tense] Mówi się, że w lasach stoi ktoś za wysoki. I nie ma twarzy.'],
@@ -34,16 +34,19 @@ SEG = [
     ['patrzy', 0.15, '[whispering, slow] Nie miał twarzy. Ale wiedziałem, że patrzy.'],
     ['epilog', 0.15, '[storytelling] Mówi się, że on nigdy nie chodzi. Po prostu za każdym razem, gdy mrugniesz, jest bliżej.'],
     ['end', 0.15, '[whispering, eerie] Nie mrugaj.'],
+    ['zoom', 0.15, '[whispering, slow] Przybliżyłem zdjęcie. Tam, gdzie powinna być twarz, nie było nic.'],
+    ['mruga', 0.15, '[storytelling, tense] Latarnia zamrugała. Kiedy znów się zapaliła, przy furtce nikogo nie było.'],
+    ['szyba', 0.15, '[whispering, slow] Na szybie, tuż przed moją twarzą, zostały odciski długich palców.'],
 ]
 SKIP = ['tik']
 AUDIO = dict(
-    bed=([0, 83.39], [-34, -34]),
-    loops={'groza': ([0, .2, 11.4, 18.4, 28.8, 46.4, 57.2, 63.4, 73.2, 83.39], [-60, -10, -28, -20, -8, -5, -12, -3, -16, -40]),
-           'tension': ([0, 11.4, 22.0, 28.8, 46.4, 63.4, 73.2, 83.39], [-18, -32, -20, -8, -5, -3, -24, -40]),
-           'drone': ([0, 22.0, 28.8, 46.4, 63.4, 73.2, 78.4], [-40, -22, -10, -6, -4, -26, -30]),
-           'wind': ([0, 11.4, 18.4, 28.8, 46.4, 50.2, 83.39], [-26, -60, -20, -60, -22, -60, -60]),
-           'roomtone': ([0, 83.39], [-36, -36])},
-    heartbeat=([0, 32.6, 46.4, 63.4, 73.2, 83.39], [-90, -12, -6, -4, -90, -90]),
+    bed=([0, 94.19], [-34, -34]),
+    loops={'groza': ([0, .2, 11.4, 18.4, 28.8, 50.0, 68.0, 74.2, 84.0, 94.19], [-60, -10, -28, -20, -8, -5, -12, -3, -16, -40]),
+           'tension': ([0, 11.4, 22.0, 28.8, 50.0, 74.2, 84.0, 94.19], [-18, -32, -20, -8, -5, -3, -24, -40]),
+           'drone': ([0, 22.0, 28.8, 50.0, 74.2, 84.0, 89.2], [-40, -22, -10, -6, -4, -26, -30]),
+           'wind': ([0, 11.4, 18.4, 28.8, 50.0, 61.0, 94.19], [-26, -60, -20, -60, -22, -60, -60]),
+           'roomtone': ([0, 94.19], [-36, -36])},
+    heartbeat=([0, 32.6, 50.0, 74.2, 84.0, 94.19], [-90, -12, -6, -4, -90, -90]),
 )
-REALMAP = {'stab': [('boom', -6)], 'hit': [('boom', -3)], 'jolt': [('jolt', -2)], 'click': [('tap', -6)], 'ring': [('dial', -8)], 'switch': [('poweroff', -4)]}
-EXTRA = [(0.1, 'hit_low', -4), (8.5, 'hit_low', -3), (30.6, 'hit_low', -1), (32.9, 'hit_low', -2), (36.3, 'hit_low', 0), (36.3, 'sting', -4), (44.9, 'riser', -7), (47.8, 'hit_low', 0), (47.8, 'sting', -3), (58.2, 'hit_low', -3), (61.4, 'riser', -5), (64.6, 'hit_low', 0), (64.6, 'sting', 0), (70.85, 'hit_low', 0), (78.4, 'hit_low', -2), (11.4, 'hit_low', -9), (18.4, 'hit_low', -9), (42.8, 'hit_low', -9), (50.2, 'hit_low', -9)]
+REALMAP = {'stab': [('boom', -6)], 'hit': [('boom', -3)], 'jolt': [('jolt', -2)], 'click': [('tap', -6)], 'ring': [('dial', -8)], 'switch': [('poweroff', -4)], 'buzz': [('buzz', -8)], 'squeak': [('scrape', -10)]}
+EXTRA = [(0.1, 'hit_low', -4), (8.5, 'hit_low', -3), (30.6, 'hit_low', -1), (32.9, 'hit_low', -2), (36.3, 'hit_low', 0), (36.3, 'sting', -4), (41.8, 'hit_low', -1), (48.5, 'riser', -7), (51.4, 'hit_low', 0), (51.4, 'sting', -3), (56.0, 'hit_low', -1), (59.2, 'hit_low', 0), (59.2, 'sting', -2), (69.0, 'hit_low', -3), (72.2, 'riser', -5), (75.4, 'hit_low', 0), (75.4, 'sting', 0), (81.65, 'hit_low', 0), (89.2, 'hit_low', -2), (11.4, 'hit_low', -9), (18.4, 'hit_low', -9), (46.4, 'hit_low', -9), (61.0, 'hit_low', -9)]
